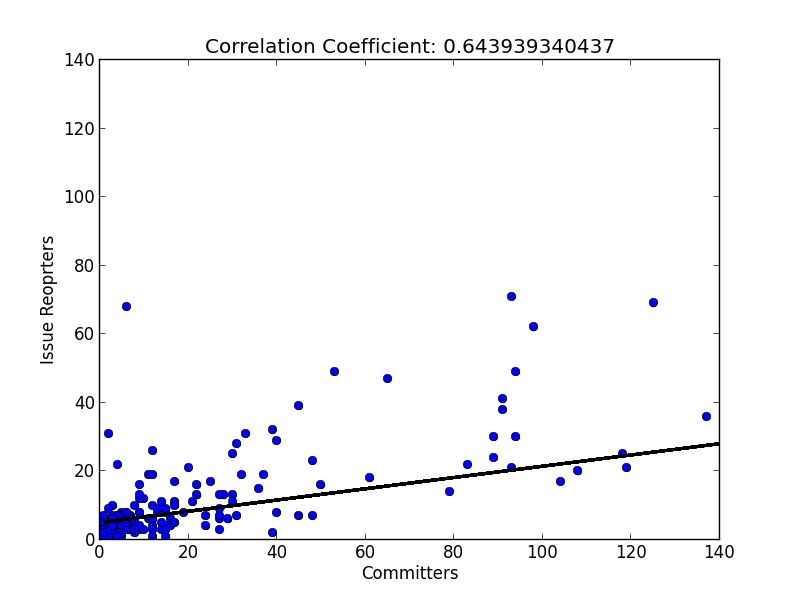
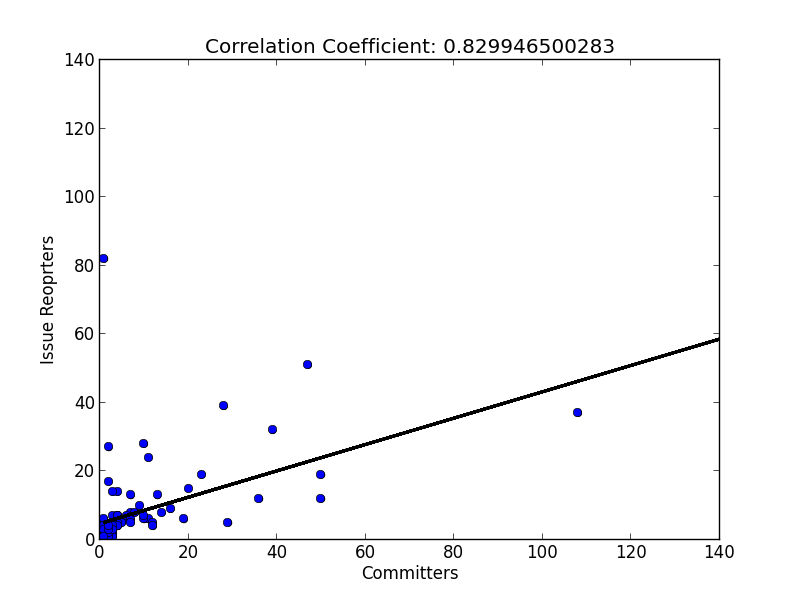
Run using organisation data only.

diff --git a/code/research.py b/code/research.py
@@ -32,7 +32,6 @@ issue_table = Table('issue', metadata,
 					Column('id', Integer, autoincrement=True, primary_key=True),
                     Column('repository_id', Integer, ForeignKey('repository.id')),
                     Column('creator', String(60)),
-                    Column('name', String(60)),
                     Column('number', Integer),
                     Column('open_date', DateTime),
                     Column('close_date', DateTime),
@@ -148,4 +147,4 @@ def crawl(sample_size):
 		except Exception as e:
 			print e
 
-crawl(100)
+crawl(300)

diff --git a/paper/issue_close_time_forks_scatterplot-correlation.tex b/paper/issue_close_time_forks_scatterplot-correlation.tex
@@ -1,1 +1,1 @@
-0.0268869631136
+0.0757658781675

diff --git a/paper/issue_reporters_committers_scatterplot-correlation.tex b/paper/issue_reporters_committers_scatterplot-correlation.tex
@@ -1,1 +1,1 @@
-0.643939340437
+0.829946500283

diff --git a/paper/watcher_forks_scatterplot-correlation.tex b/paper/watcher_forks_scatterplot-correlation.tex
@@ -1,1 +1,1 @@
-0.938796058879
+0.858559584951
